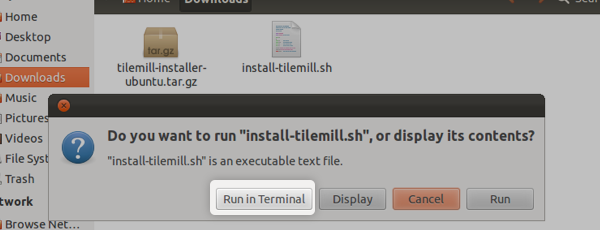
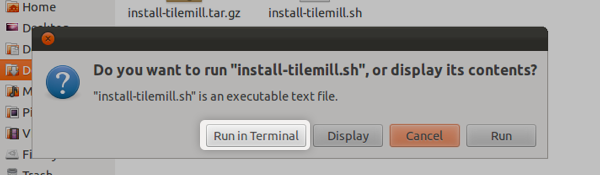
Update tar file name in ubuntu docs.

diff --git a/_posts/docs/0201-01-01-linux-install.md b/_posts/docs/0201-01-01-linux-install.md
@@ -23,7 +23,7 @@ This page is for **Ubuntu**. We also have instructions for [Mac OS X](/tilemill/
 ### Installation
 1. [Download the TileMill installer]({{site.categories.homepage[0].platforms[1].url}}) for Ubuntu. If the download window appears, choose **Save File**.
   ![](/tilemill/assets/pages/linux-install-1.png)
-2. Select **tilemill-installer-ubuntu.tar.gz** in your **Downloads** folder. Choose **Edit > Extract Here** from the menu.
+2. Select **install-tilemill.tar.gz** in your **Downloads** folder. Choose **Edit > Extract Here** from the menu.
   ![](/tilemill/assets/pages/linux-install-2.png)
 3. Double-click on **install-tilemill.sh** to start the installation process. If prompted, choose **Run in terminal**. Enter your system password when prompted.
   ![](/tilemill/assets/pages/linux-install-3.png)
